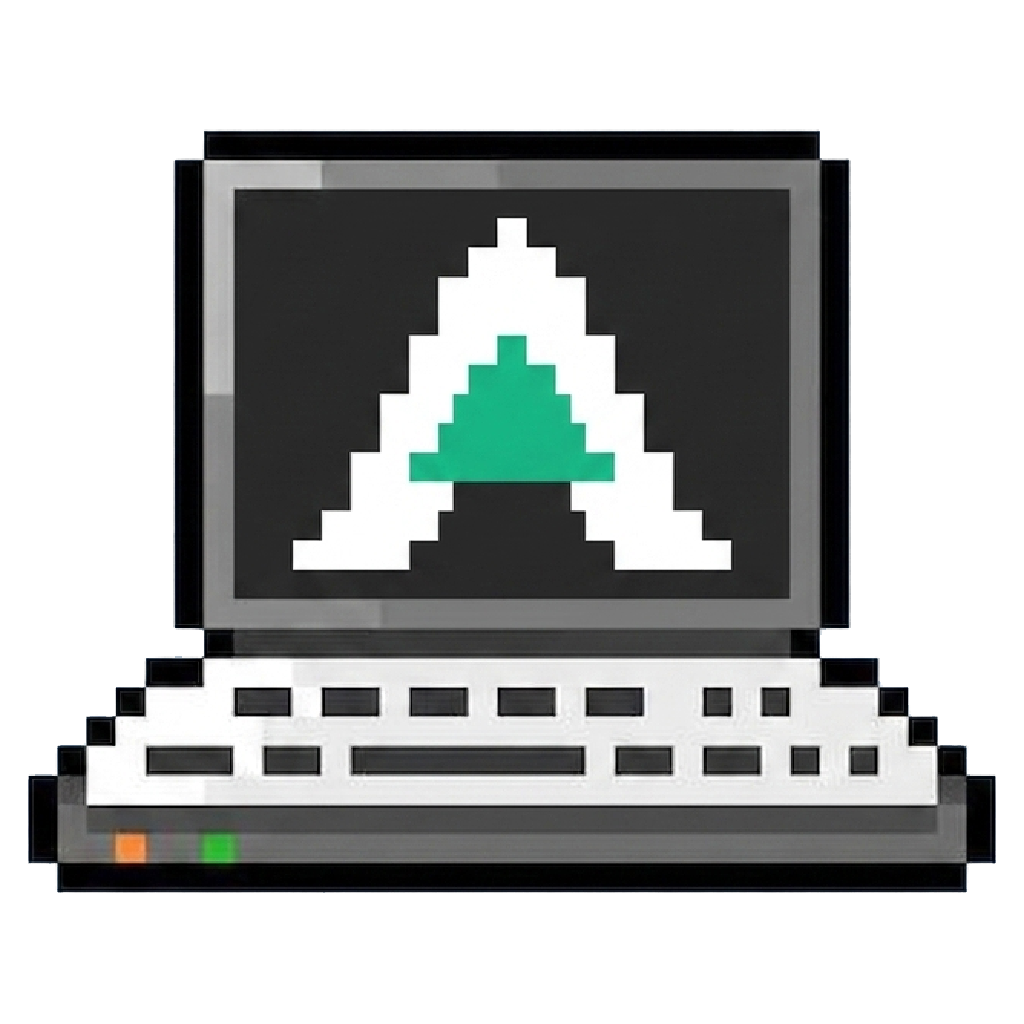
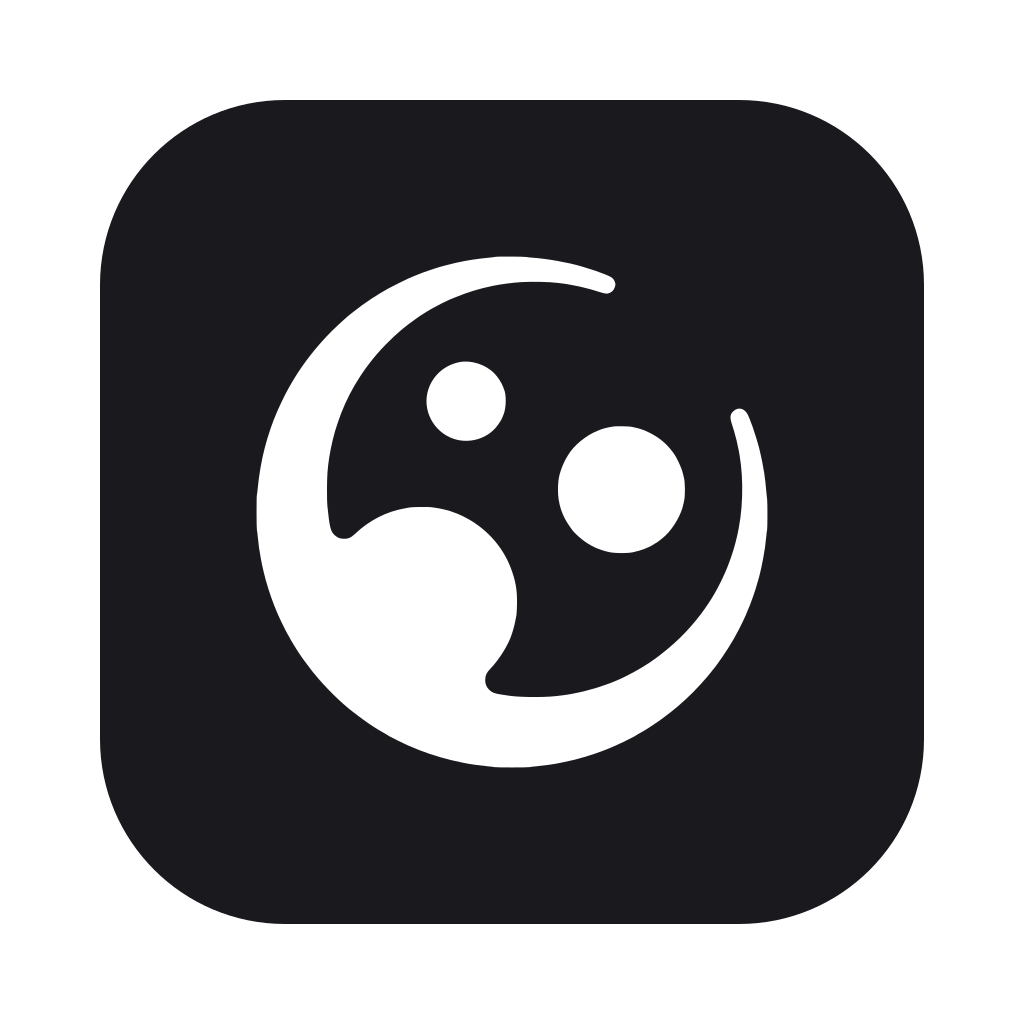
Adopt the new Auracle brand mark across the IDE
Regenerates the app icon (mac icns / win ico / png, incl. resources) from
the new orbital mark, refreshes the in-app badge shown in onboarding and
the workspace manager, and retires the leftover fork logo (nimbalyst-logo
-> auracle-mark) used by the community card.

diff --git a/packages/electron/src/renderer/components/DiscordInvitation/DiscordInvitation.tsx b/packages/electron/src/renderer/components/DiscordInvitation/DiscordInvitation.tsx
@@ -79,7 +79,7 @@ export const DiscordInvitation: React.FC<DiscordInvitationProps> = ({
   onDismiss
 }) => {
   const posthog = usePostHog();
-  const logoSrc = new URL('/nimbalyst-logo.png', import.meta.url).href;
+  const logoSrc = new URL('/auracle-mark.png', import.meta.url).href;
 
   // Map social link names to their channel identifiers
   const channelMap = useMemo(() => ({